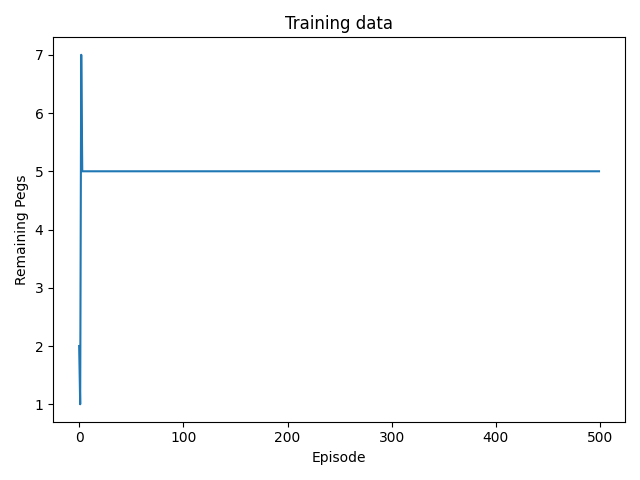
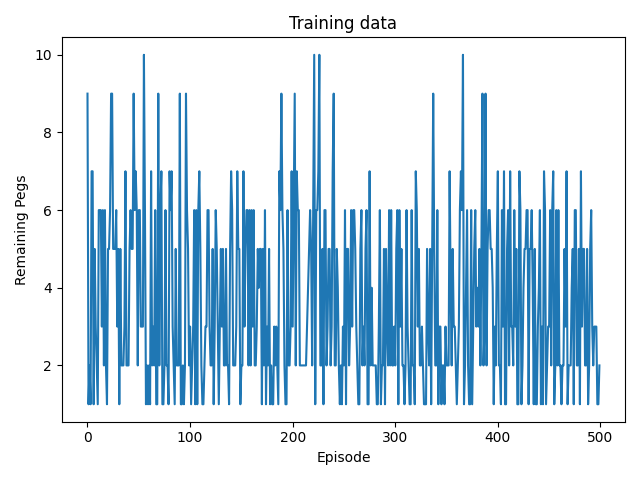
Stop running of invalid states

diff --git a/src/parameters.py b/src/parameters.py
@@ -1,12 +1,12 @@
 from data_classes import Shape
 
 # General
-EPISODES = 500
+EPISODES = 100
 VISUALIZE_GAMES = False
 FRAME_DELAY = 0.3
 
 # Simulated World
-BOARD_TYPE = Shape.Diamond
+BOARD_TYPE = Shape.Triangle
 SIZE = 5
 HOLES = set([
     (3, 2),
@@ -14,14 +14,14 @@ HOLES = set([
 
 # Actor
 ACTOR_LEARNING_RATE = 0.1
-ACTOR_DISCOUNT_FACTOR = 0.9999
-ACTOR_TRACE_DECAY = 0.9999
-ACTOR_EPSILON = 1.0
-ACTOR_EPSILON_DECAY = 0.9999
+ACTOR_DISCOUNT_FACTOR = 0.99
+ACTOR_TRACE_DECAY = 0.99
+ACTOR_EPSILON = 0.5
+ACTOR_EPSILON_DECAY = 0.99
 
 # Critic
-USE_TABLE_CRITIC = False
+USE_TABLE_CRITIC = True
 CRITIC_LEARNING_RATE = 0.1
-CRITIC_DISCOUNT_FACTOR = 0.9999
-CRITIC_TRACE_DECAY = 0.9999
+CRITIC_DISCOUNT_FACTOR = 0.99
+CRITIC_TRACE_DECAY = 0.99
 CRITIC_NN_DIMENSIONS = (16, 20, 30, 5, 1)

diff --git a/src/reinforcement_learner.py b/src/reinforcement_learner.py
@@ -45,6 +45,9 @@ class ReinforcementLearner:
         self.__critic.reset_eligibilities()
 
         state, possible_actions = self.__simulated_world.reset()
+        if bool(possible_actions):
+            print('No possible actions from start position.')
+            return
         action = self.__actor.choose_action(state, possible_actions)
 
         done = False
